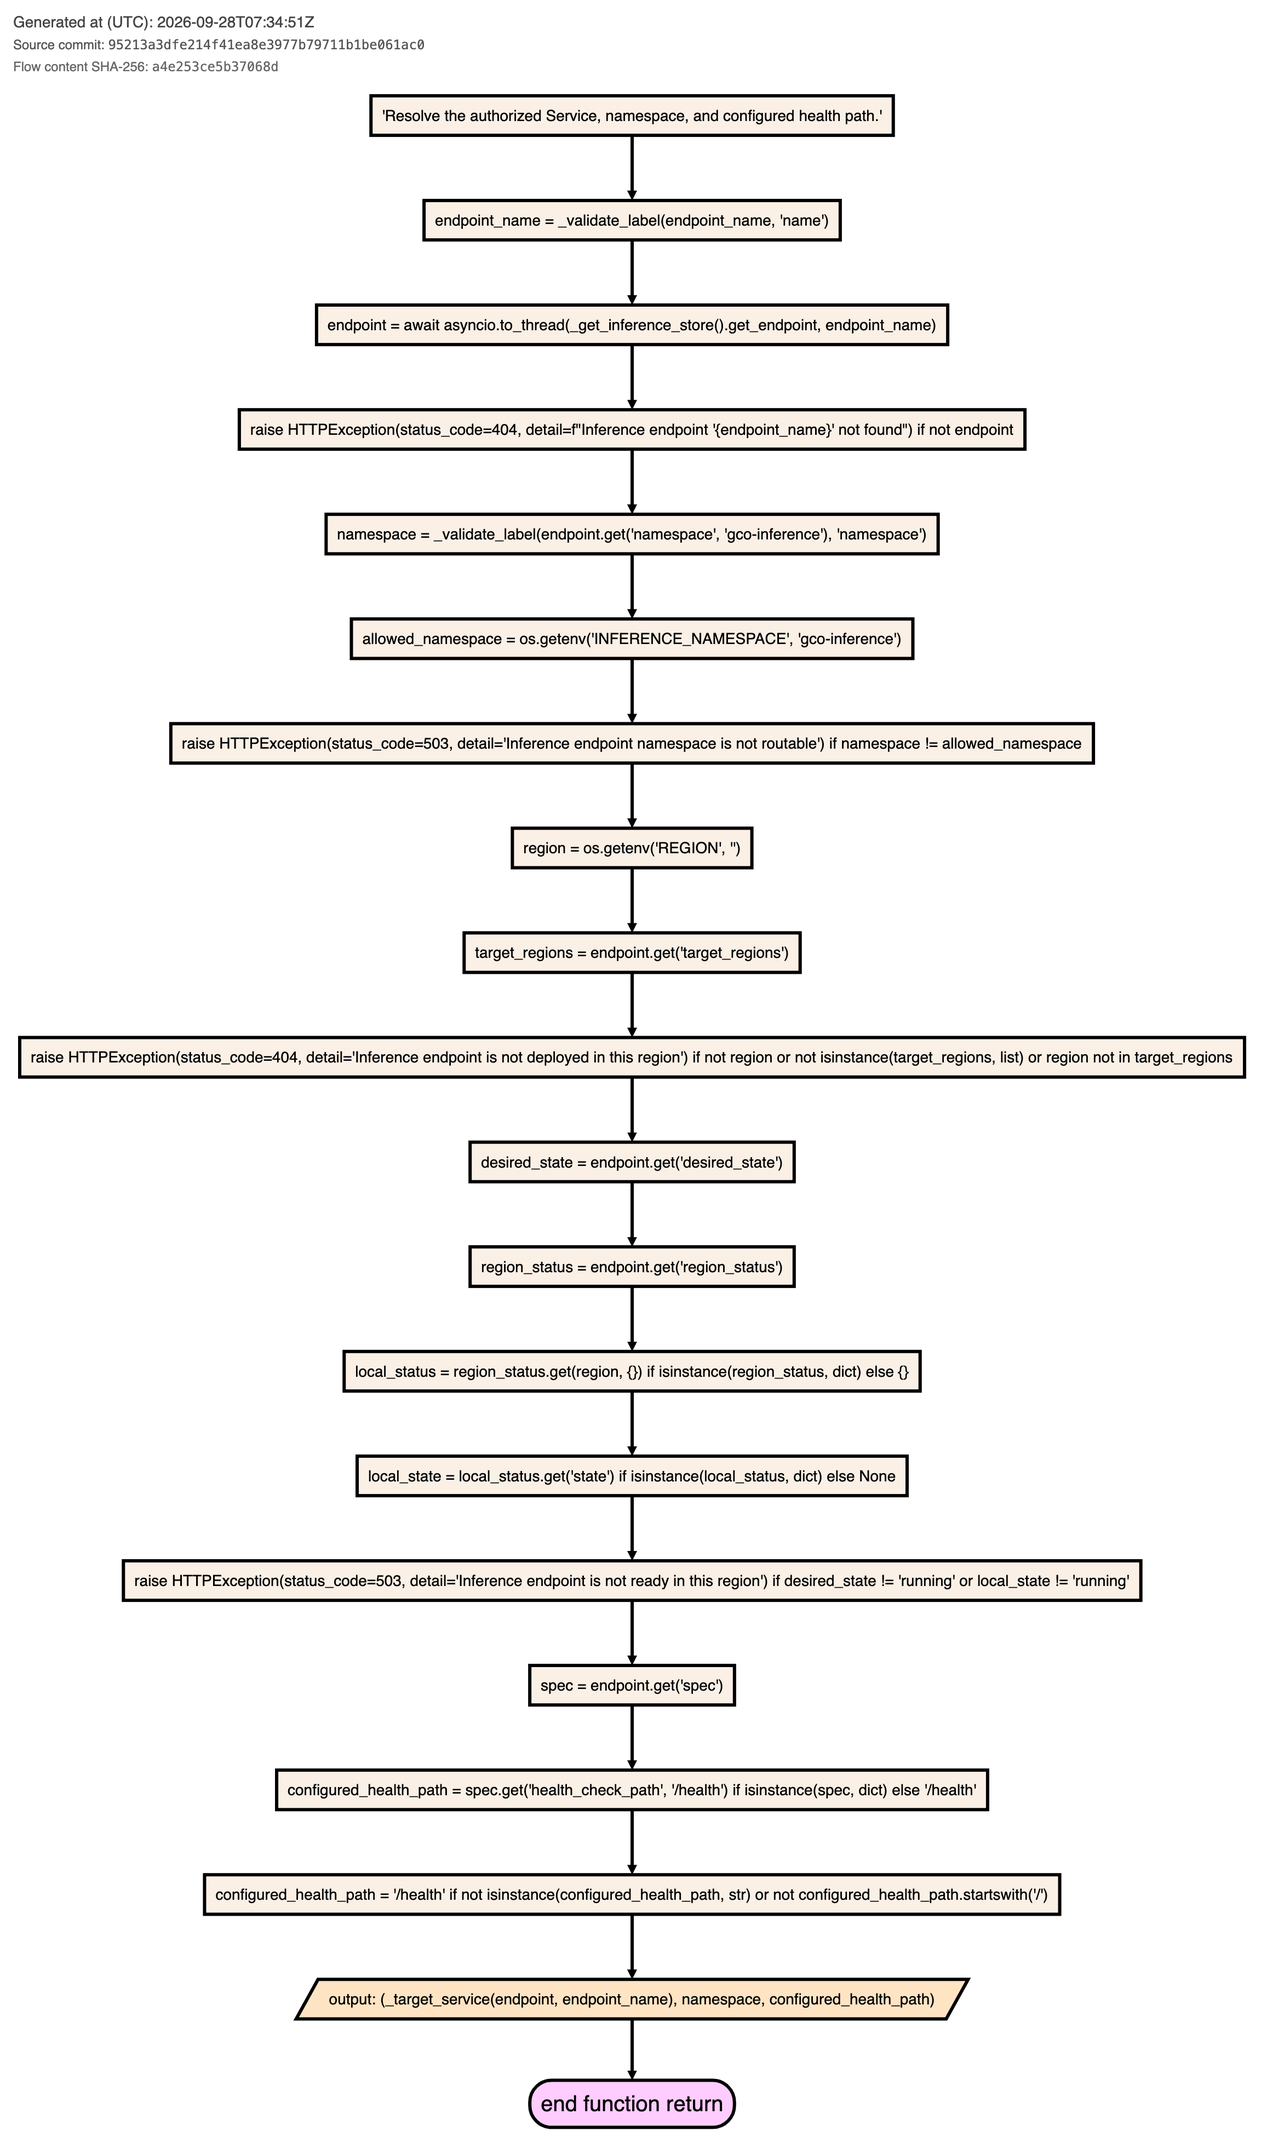
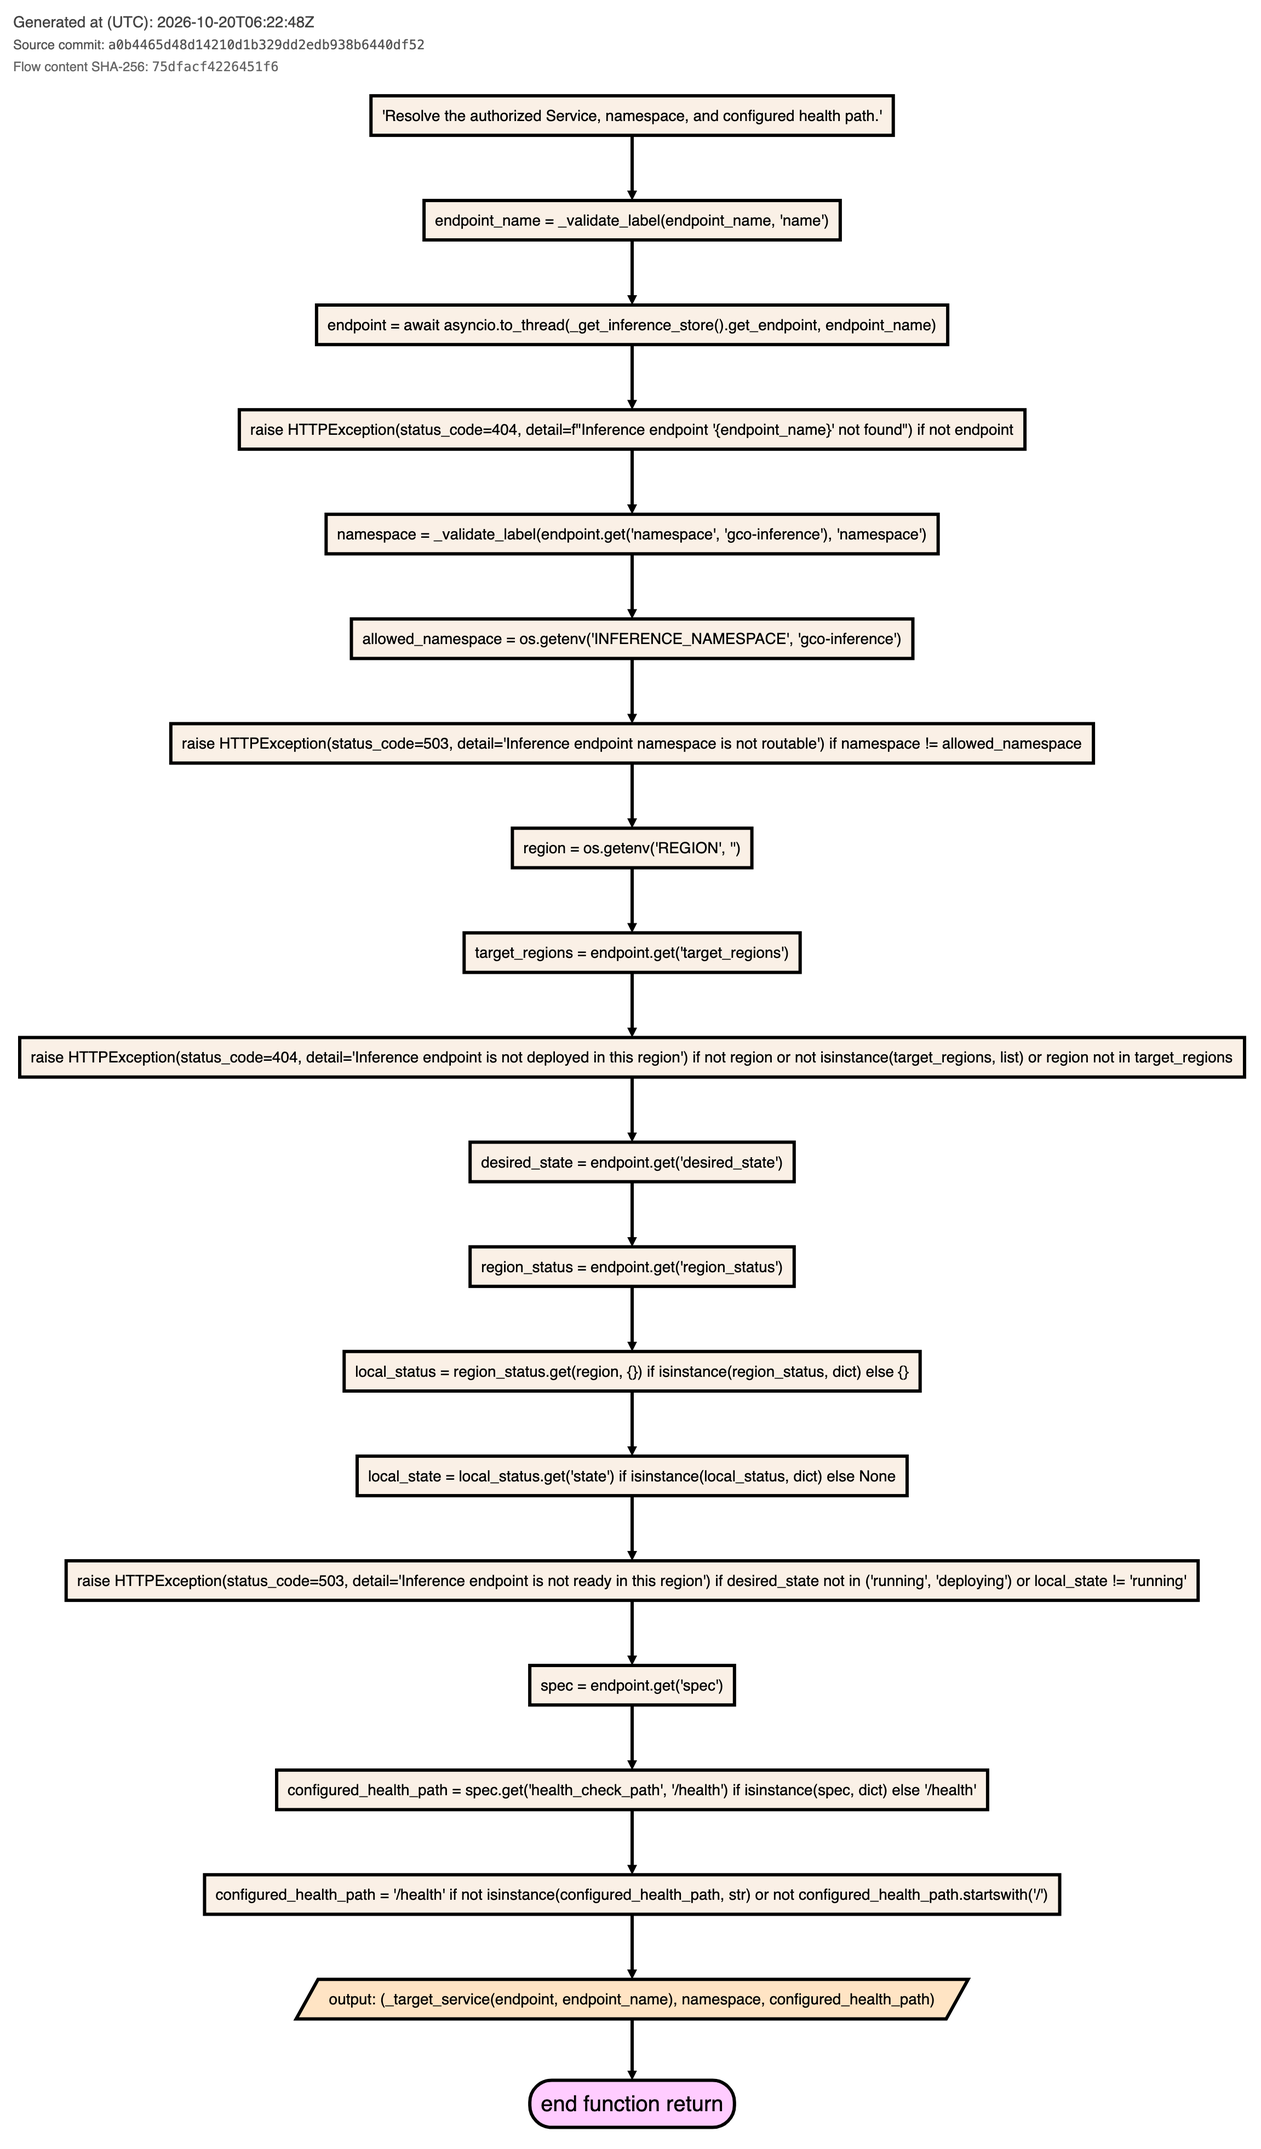
Regenerate the inference_proxy code diagrams

diff --git a/diagrams/code_diagrams/gco/services/api_routes/inference_proxy._proxy.html b/diagrams/code_diagrams/gco/services/api_routes/inference_proxy._proxy.html
@@ -2,9 +2,9 @@
 <html lang="en">
     <head>
         <meta charset="utf-8">
-        <meta name="gco-generated-at" content="2026-09-28T07:34:51Z">
-        <meta name="gco-source-commit" content="95213a3dfe214f41ea8e3977b79711b1be061ac0">
-        <meta name="gco-flow-digest" content="b990851cdcf4949a">
+        <meta name="gco-generated-at" content="2026-10-20T06:22:48Z">
+        <meta name="gco-source-commit" content="a0b4465d48d14210d1b329dd2edb938b6440df52">
+        <meta name="gco-flow-digest" content="39706de6fececcc6">
         <title>Managed inference reverse proxy (path allowlist, bounded I/O, streaming cleanup)</title>
         <style type="text/css">
           .end-element { fill : #FFCCFF; }
@@ -208,63 +208,63 @@ function base64ToSvgDocument(base64) {
         </script>
     </head>
     <body>
-        <div><textarea id="code" style="width: 100%;" rows="11">op1499=>operation: 'Forward one authenticated request to a managed in-cluster endpoint.'
-cond1502=>operation: raise HTTPException(status_code=400, detail='Invalid inference path') if  any((part in {'.', '..'} for part in upstream_path.split('/')))
-op1512=>operation: service_name, namespace, configured_health_path = await _resolve_upstream(endpoint_name)
-op1514=>operation: upstream_path = _validate_upstream_path(upstream_path, request.method, configured_health_path)
-op1516=>operation: encoded_suffix = quote(upstream_path, safe='/:@-._~')
-op1518=>operation: upstream_path_value = f'/{encoded_suffix}' if encoded_suffix else '/'
-op1520=>operation: upstream_url = f'https://{service_name}.{namespace}.svc.cluster.local:8443{upstream_path_value}'
-op1522=>operation: body = await request.body()
-op1524=>operation: timeout = httpx2.Timeout(connect=_bounded_timeout('INFERENCE_PROXY_CONNECT_TIMEOUT_SECONDS', 5.0, 0.1, 30.0), read=_bounded_timeout('INFERENCE_PROXY_READ_TIMEOUT_SECONDS', 300.0, 1.0, 900.0), write=_bounded_timeout('INFERENCE_PROXY_WRITE_TIMEOUT_SECONDS', 30.0, 1.0, 300.0), pool=_bounded_timeout('INFERENCE_PROXY_POOL_TIMEOUT_SECONDS', 5.0, 0.1, 30.0))
-op1529=>operation: client = _new_upstream_client()
-cond1526=>condition: exception raised?
-cond1531=>condition: except internal_tls.InternalTLSError as exc
-sub1535=>subroutine: logger.error('Inference upstream TLS trust is unavailable: %s', exc)
-sub1537=>subroutine: raise HTTPException(status_code=502, detail='Inference endpoint is unavailable') from exc
-op1542=>operation: response: httpx2.Response | None = None
-op1545=>operation: upstream_request = client.build_request(request.method, upstream_url, params=list(request.query_params.multi_items()), headers=_request_headers(request), content=body, timeout=timeout)
+        <div><textarea id="code" style="width: 100%;" rows="11">op91=>operation: 'Forward one authenticated request to a managed in-cluster endpoint.'
+cond94=>operation: raise HTTPException(status_code=400, detail='Invalid inference path') if  any((part in {'.', '..'} for part in upstream_path.split('/')))
+op104=>operation: service_name, namespace, configured_health_path = await _resolve_upstream(endpoint_name)
+op106=>operation: upstream_path = _validate_upstream_path(upstream_path, request.method, configured_health_path)
+op108=>operation: encoded_suffix = quote(upstream_path, safe='/:@-._~')
+op110=>operation: upstream_path_value = f'/{encoded_suffix}' if encoded_suffix else '/'
+op112=>operation: upstream_url = f'https://{service_name}.{namespace}.svc.cluster.local:8443{upstream_path_value}'
+op114=>operation: body = await request.body()
+op116=>operation: timeout = httpx2.Timeout(connect=_bounded_timeout('INFERENCE_PROXY_CONNECT_TIMEOUT_SECONDS', 5.0, 0.1, 30.0), read=_bounded_timeout('INFERENCE_PROXY_READ_TIMEOUT_SECONDS', 300.0, 1.0, 900.0), write=_bounded_timeout('INFERENCE_PROXY_WRITE_TIMEOUT_SECONDS', 30.0, 1.0, 300.0), pool=_bounded_timeout('INFERENCE_PROXY_POOL_TIMEOUT_SECONDS', 5.0, 0.1, 30.0))
+op121=>operation: client = _new_upstream_client()
+cond118=>condition: exception raised?
+cond123=>condition: except internal_tls.InternalTLSError as exc
+sub127=>subroutine: logger.error('Inference upstream TLS trust is unavailable: %s', exc)
+sub129=>subroutine: raise HTTPException(status_code=502, detail='Inference endpoint is unavailable') from exc
+op134=>operation: response: httpx2.Response | None = None
+op137=>operation: upstream_request = client.build_request(request.method, upstream_url, params=list(request.query_params.multi_items()), headers=_request_headers(request), content=body, timeout=timeout)
 response = await client.send(upstream_request, stream=True)
 return _UpstreamStreamingResponse(response, client)
-cond1544=>condition: exception raised?
-cond1547=>condition: except httpx2.TimeoutException as exc
-op1551=>operation: await _release_upstream(response, client)
-sub1553=>subroutine: raise HTTPException(status_code=504, detail='Inference endpoint timed out') from exc
-cond1555=>condition: except httpx2.HTTPError as exc
-op1559=>operation: await _release_upstream(response, client)
-sub1561=>subroutine: logger.warning('Inference upstream request failed: service=%s namespace=%s error_type=%s error=%s', service_name, namespace, type(exc).__name__, exc)
-sub1563=>subroutine: raise HTTPException(status_code=502, detail='Inference endpoint is unavailable') from exc
-cond1565=>condition: except BaseException
-op1569=>operation: await _release_upstream(response, client)
-sub1571=>subroutine: raise
+cond136=>condition: exception raised?
+cond139=>condition: except httpx2.TimeoutException as exc
+op143=>operation: await _release_upstream(response, client)
+sub145=>subroutine: raise HTTPException(status_code=504, detail='Inference endpoint timed out') from exc
+cond147=>condition: except httpx2.HTTPError as exc
+op151=>operation: await _release_upstream(response, client)
+sub153=>subroutine: logger.warning('Inference upstream request failed: service=%s namespace=%s error_type=%s error=%s', service_name, namespace, type(exc).__name__, exc)
+sub155=>subroutine: raise HTTPException(status_code=502, detail='Inference endpoint is unavailable') from exc
+cond157=>condition: except BaseException
+op161=>operation: await _release_upstream(response, client)
+sub163=>subroutine: raise
 
-op1499->cond1502
-cond1502->op1512
-op1512->op1514
-op1514->op1516
-op1516->op1518
-op1518->op1520
-op1520->op1522
-op1522->op1524
-op1524->op1529
-op1529->cond1526
-cond1526(yes)->cond1531
-cond1531(yes)->sub1535
-sub1535->sub1537
-cond1531(no)->op1542
-op1542->op1545
-op1545->cond1544
-cond1544(yes)->cond1547
-cond1547(yes)->op1551
-op1551->sub1553
-cond1547(no)->cond1555
-cond1555(yes)->op1559
-op1559->sub1561
-sub1561->sub1563
-cond1555(no)->cond1565
-cond1565(yes)->op1569
-op1569->sub1571
-cond1526(no)->op1542
+op91->cond94
+cond94->op104
+op104->op106
+op106->op108
+op108->op110
+op110->op112
+op112->op114
+op114->op116
+op116->op121
+op121->cond118
+cond118(yes)->cond123
+cond123(yes)->sub127
+sub127->sub129
+cond123(no)->op134
+op134->op137
+op137->cond136
+cond136(yes)->cond139
+cond139(yes)->op143
+op143->sub145
+cond139(no)->cond147
+cond147(yes)->op151
+op151->sub153
+sub153->sub155
+cond147(no)->cond157
+cond157(yes)->op161
+op161->sub163
+cond118(no)->op134
 </textarea></div>
         <div><button id="run" type="button">Run</button> <button onclick="HelpText()">Format Help</button></div>
         <div id="HelpTextBlock" style="display:none"><br/>Conditions can also be redirected like cond(yes, bottom) or cond(yes, right)
@@ -274,17 +274,17 @@ This is based on <a href="https://github.com/adrai/flowchart.js">flowchart.js on
 </div><br/><div id="svgbase64"></div>
         <div id="pngbase64"></div>
 
-        <!-- Generated at (UTC): 2026-09-28T07:34:51Z -->
-        <!-- Generated from Git commit: 95213a3dfe214f41ea8e3977b79711b1be061ac0 -->
+        <!-- Generated at (UTC): 2026-10-20T06:22:48Z -->
+        <!-- Generated from Git commit: a0b4465d48d14210d1b329dd2edb938b6440df52 -->
         <div id="generated-artifact" style="display: inline-block; padding: 12px; background: #fff;">
           <p style="margin: 0 0 6px; color: #444; font: 14px Helvetica, sans-serif;">
-            Generated at (UTC): <time datetime="2026-09-28T07:34:51Z">2026-09-28T07:34:51Z</time>
+            Generated at (UTC): <time datetime="2026-10-20T06:22:48Z">2026-10-20T06:22:48Z</time>
           </p>
           <p style="margin: 0 0 6px; color: #555; font: 12px Helvetica, sans-serif;">
-            Source commit: <code>95213a3dfe214f41ea8e3977b79711b1be061ac0</code>
+            Source commit: <code>a0b4465d48d14210d1b329dd2edb938b6440df52</code>
           </p>
           <p style="margin: 0 0 10px; color: #666; font: 12px Helvetica, sans-serif;">
-            Flow content SHA-256: <code>b990851cdcf4949a</code>
+            Flow content SHA-256: <code>39706de6fececcc6</code>
           </p>
           <div id="canvas"></div>
         </div>

diff --git a/diagrams/code_diagrams/gco/services/api_routes/inference_proxy._resolve_upstream.html b/diagrams/code_diagrams/gco/services/api_routes/inference_proxy._resolve_upstream.html
@@ -2,9 +2,9 @@
 <html lang="en">
     <head>
         <meta charset="utf-8">
-        <meta name="gco-generated-at" content="2026-09-28T07:34:51Z">
-        <meta name="gco-source-commit" content="95213a3dfe214f41ea8e3977b79711b1be061ac0">
-        <meta name="gco-flow-digest" content="a4e253ce5b37068d">
+        <meta name="gco-generated-at" content="2026-10-20T06:22:48Z">
+        <meta name="gco-source-commit" content="a0b4465d48d14210d1b329dd2edb938b6440df52">
+        <meta name="gco-flow-digest" content="75dfacf4226451f6">
         <title>Authenticated inference target resolution (region, readiness, namespace, canary)</title>
         <style type="text/css">
           .end-element { fill : #FFCCFF; }
@@ -208,46 +208,46 @@ function base64ToSvgDocument(base64) {
         </script>
     </head>
     <body>
-        <div><textarea id="code" style="width: 100%;" rows="11">op1410=>operation: 'Resolve the authorized Service, namespace, and configured health path.'
-op1412=>operation: endpoint_name = _validate_label(endpoint_name, 'name')
-op1414=>operation: endpoint = await asyncio.to_thread(_get_inference_store().get_endpoint, endpoint_name)
-cond1417=>operation: raise HTTPException(status_code=404, detail=f"Inference endpoint '{endpoint_name}' not found") if  not endpoint
-op1427=>operation: namespace = _validate_label(endpoint.get('namespace', 'gco-inference'), 'namespace')
-op1429=>operation: allowed_namespace = os.getenv('INFERENCE_NAMESPACE', 'gco-inference')
-cond1432=>operation: raise HTTPException(status_code=503, detail='Inference endpoint namespace is not routable') if  namespace != allowed_namespace
-op1442=>operation: region = os.getenv('REGION', '')
-op1444=>operation: target_regions = endpoint.get('target_regions')
-cond1447=>operation: raise HTTPException(status_code=404, detail='Inference endpoint is not deployed in this region') if  not region or not isinstance(target_regions, list) or region not in target_regions
-op1457=>operation: desired_state = endpoint.get('desired_state')
-op1459=>operation: region_status = endpoint.get('region_status')
-op1461=>operation: local_status = region_status.get(region, {}) if isinstance(region_status, dict) else {}
-op1463=>operation: local_state = local_status.get('state') if isinstance(local_status, dict) else None
-cond1466=>operation: raise HTTPException(status_code=503, detail='Inference endpoint is not ready in this region') if  desired_state != 'running' or local_state != 'running'
-op1476=>operation: spec = endpoint.get('spec')
-op1478=>operation: configured_health_path = spec.get('health_check_path', '/health') if isinstance(spec, dict) else '/health'
-cond1481=>operation: configured_health_path = '/health' if  not isinstance(configured_health_path, str) or not configured_health_path.startswith('/')
-io1494=>inputoutput: output: (_target_service(endpoint, endpoint_name), namespace, configured_health_path)
-e1492=>end: end function return
+        <div><textarea id="code" style="width: 100%;" rows="11">op2=>operation: 'Resolve the authorized Service, namespace, and configured health path.'
+op4=>operation: endpoint_name = _validate_label(endpoint_name, 'name')
+op6=>operation: endpoint = await asyncio.to_thread(_get_inference_store().get_endpoint, endpoint_name)
+cond9=>operation: raise HTTPException(status_code=404, detail=f"Inference endpoint '{endpoint_name}' not found") if  not endpoint
+op19=>operation: namespace = _validate_label(endpoint.get('namespace', 'gco-inference'), 'namespace')
+op21=>operation: allowed_namespace = os.getenv('INFERENCE_NAMESPACE', 'gco-inference')
+cond24=>operation: raise HTTPException(status_code=503, detail='Inference endpoint namespace is not routable') if  namespace != allowed_namespace
+op34=>operation: region = os.getenv('REGION', '')
+op36=>operation: target_regions = endpoint.get('target_regions')
+cond39=>operation: raise HTTPException(status_code=404, detail='Inference endpoint is not deployed in this region') if  not region or not isinstance(target_regions, list) or region not in target_regions
+op49=>operation: desired_state = endpoint.get('desired_state')
+op51=>operation: region_status = endpoint.get('region_status')
+op53=>operation: local_status = region_status.get(region, {}) if isinstance(region_status, dict) else {}
+op55=>operation: local_state = local_status.get('state') if isinstance(local_status, dict) else None
+cond58=>operation: raise HTTPException(status_code=503, detail='Inference endpoint is not ready in this region') if  desired_state not in ('running', 'deploying') or local_state != 'running'
+op68=>operation: spec = endpoint.get('spec')
+op70=>operation: configured_health_path = spec.get('health_check_path', '/health') if isinstance(spec, dict) else '/health'
+cond73=>operation: configured_health_path = '/health' if  not isinstance(configured_health_path, str) or not configured_health_path.startswith('/')
+io86=>inputoutput: output: (_target_service(endpoint, endpoint_name), namespace, configured_health_path)
+e84=>end: end function return
 
-op1410->op1412
-op1412->op1414
-op1414->cond1417
-cond1417->op1427
-op1427->op1429
-op1429->cond1432
-cond1432->op1442
-op1442->op1444
-op1444->cond1447
-cond1447->op1457
-op1457->op1459
-op1459->op1461
-op1461->op1463
-op1463->cond1466
-cond1466->op1476
-op1476->op1478
-op1478->cond1481
-cond1481->io1494
-io1494->e1492
+op2->op4
+op4->op6
+op6->cond9
+cond9->op19
+op19->op21
+op21->cond24
+cond24->op34
+op34->op36
+op36->cond39
+cond39->op49
+op49->op51
+op51->op53
+op53->op55
+op55->cond58
+cond58->op68
+op68->op70
+op70->cond73
+cond73->io86
+io86->e84
 </textarea></div>
         <div><button id="run" type="button">Run</button> <button onclick="HelpText()">Format Help</button></div>
         <div id="HelpTextBlock" style="display:none"><br/>Conditions can also be redirected like cond(yes, bottom) or cond(yes, right)
@@ -257,17 +257,17 @@ This is based on <a href="https://github.com/adrai/flowchart.js">flowchart.js on
 </div><br/><div id="svgbase64"></div>
         <div id="pngbase64"></div>
 
-        <!-- Generated at (UTC): 2026-09-28T07:34:51Z -->
-        <!-- Generated from Git commit: 95213a3dfe214f41ea8e3977b79711b1be061ac0 -->
+        <!-- Generated at (UTC): 2026-10-20T06:22:48Z -->
+        <!-- Generated from Git commit: a0b4465d48d14210d1b329dd2edb938b6440df52 -->
         <div id="generated-artifact" style="display: inline-block; padding: 12px; background: #fff;">
           <p style="margin: 0 0 6px; color: #444; font: 14px Helvetica, sans-serif;">
-            Generated at (UTC): <time datetime="2026-09-28T07:34:51Z">2026-09-28T07:34:51Z</time>
+            Generated at (UTC): <time datetime="2026-10-20T06:22:48Z">2026-10-20T06:22:48Z</time>
           </p>
           <p style="margin: 0 0 6px; color: #555; font: 12px Helvetica, sans-serif;">
-            Source commit: <code>95213a3dfe214f41ea8e3977b79711b1be061ac0</code>
+            Source commit: <code>a0b4465d48d14210d1b329dd2edb938b6440df52</code>
           </p>
           <p style="margin: 0 0 10px; color: #666; font: 12px Helvetica, sans-serif;">
-            Flow content SHA-256: <code>a4e253ce5b37068d</code>
+            Flow content SHA-256: <code>75dfacf4226451f6</code>
           </p>
           <div id="canvas"></div>
         </div>

diff --git a/gco/services/api_routes/inference_proxy.py b/gco/services/api_routes/inference_proxy.py
@@ -47,8 +47,8 @@ from gco.services import internal_tls, tracing
 from gco.services.inference_store import InferenceEndpointStore, get_inference_endpoint_store
 
 # <pyflowchart-code-diagram> BEGIN - auto-inserted, do not edit
-# Generated at (UTC): 2026-09-28T07:34:51Z
-# Generated from Git commit: 95213a3dfe214f41ea8e3977b79711b1be061ac0
+# Generated at (UTC): 2026-10-20T06:22:48Z
+# Generated from Git commit: a0b4465d48d14210d1b329dd2edb938b6440df52
 # Flowchart(s) generated from this file:
 #   * ``_resolve_upstream`` -> ``diagrams/code_diagrams/gco/services/api_routes/inference_proxy._resolve_upstream.html``
 #     (PNG: ``diagrams/code_diagrams/gco/services/api_routes/inference_proxy._resolve_upstream.png``)

diff --git a/diagrams/code_diagrams/README.md b/diagrams/code_diagrams/README.md
@@ -1,9 +1,9 @@
 # GCO Code Flowcharts
 
-<!-- Generated at (UTC): 2026-10-20T06:07:53Z -->
-<!-- Generated from Git commit: a79cb382e149c05b653fcf1d50a9793f0c861209 -->
-*Generated at (UTC): `2026-10-20T06:07:53Z`.*
-*Generated from Git commit: `a79cb382e149c05b653fcf1d50a9793f0c861209`.*
+<!-- Generated at (UTC): 2026-10-20T06:22:48Z -->
+<!-- Generated from Git commit: a0b4465d48d14210d1b329dd2edb938b6440df52 -->
+*Generated at (UTC): `2026-10-20T06:22:48Z`.*
+*Generated from Git commit: `a0b4465d48d14210d1b329dd2edb938b6440df52`.*
 
 This directory holds auto-generated control-flow diagrams for the
 Python source files listed below. Each target produces an interactive
